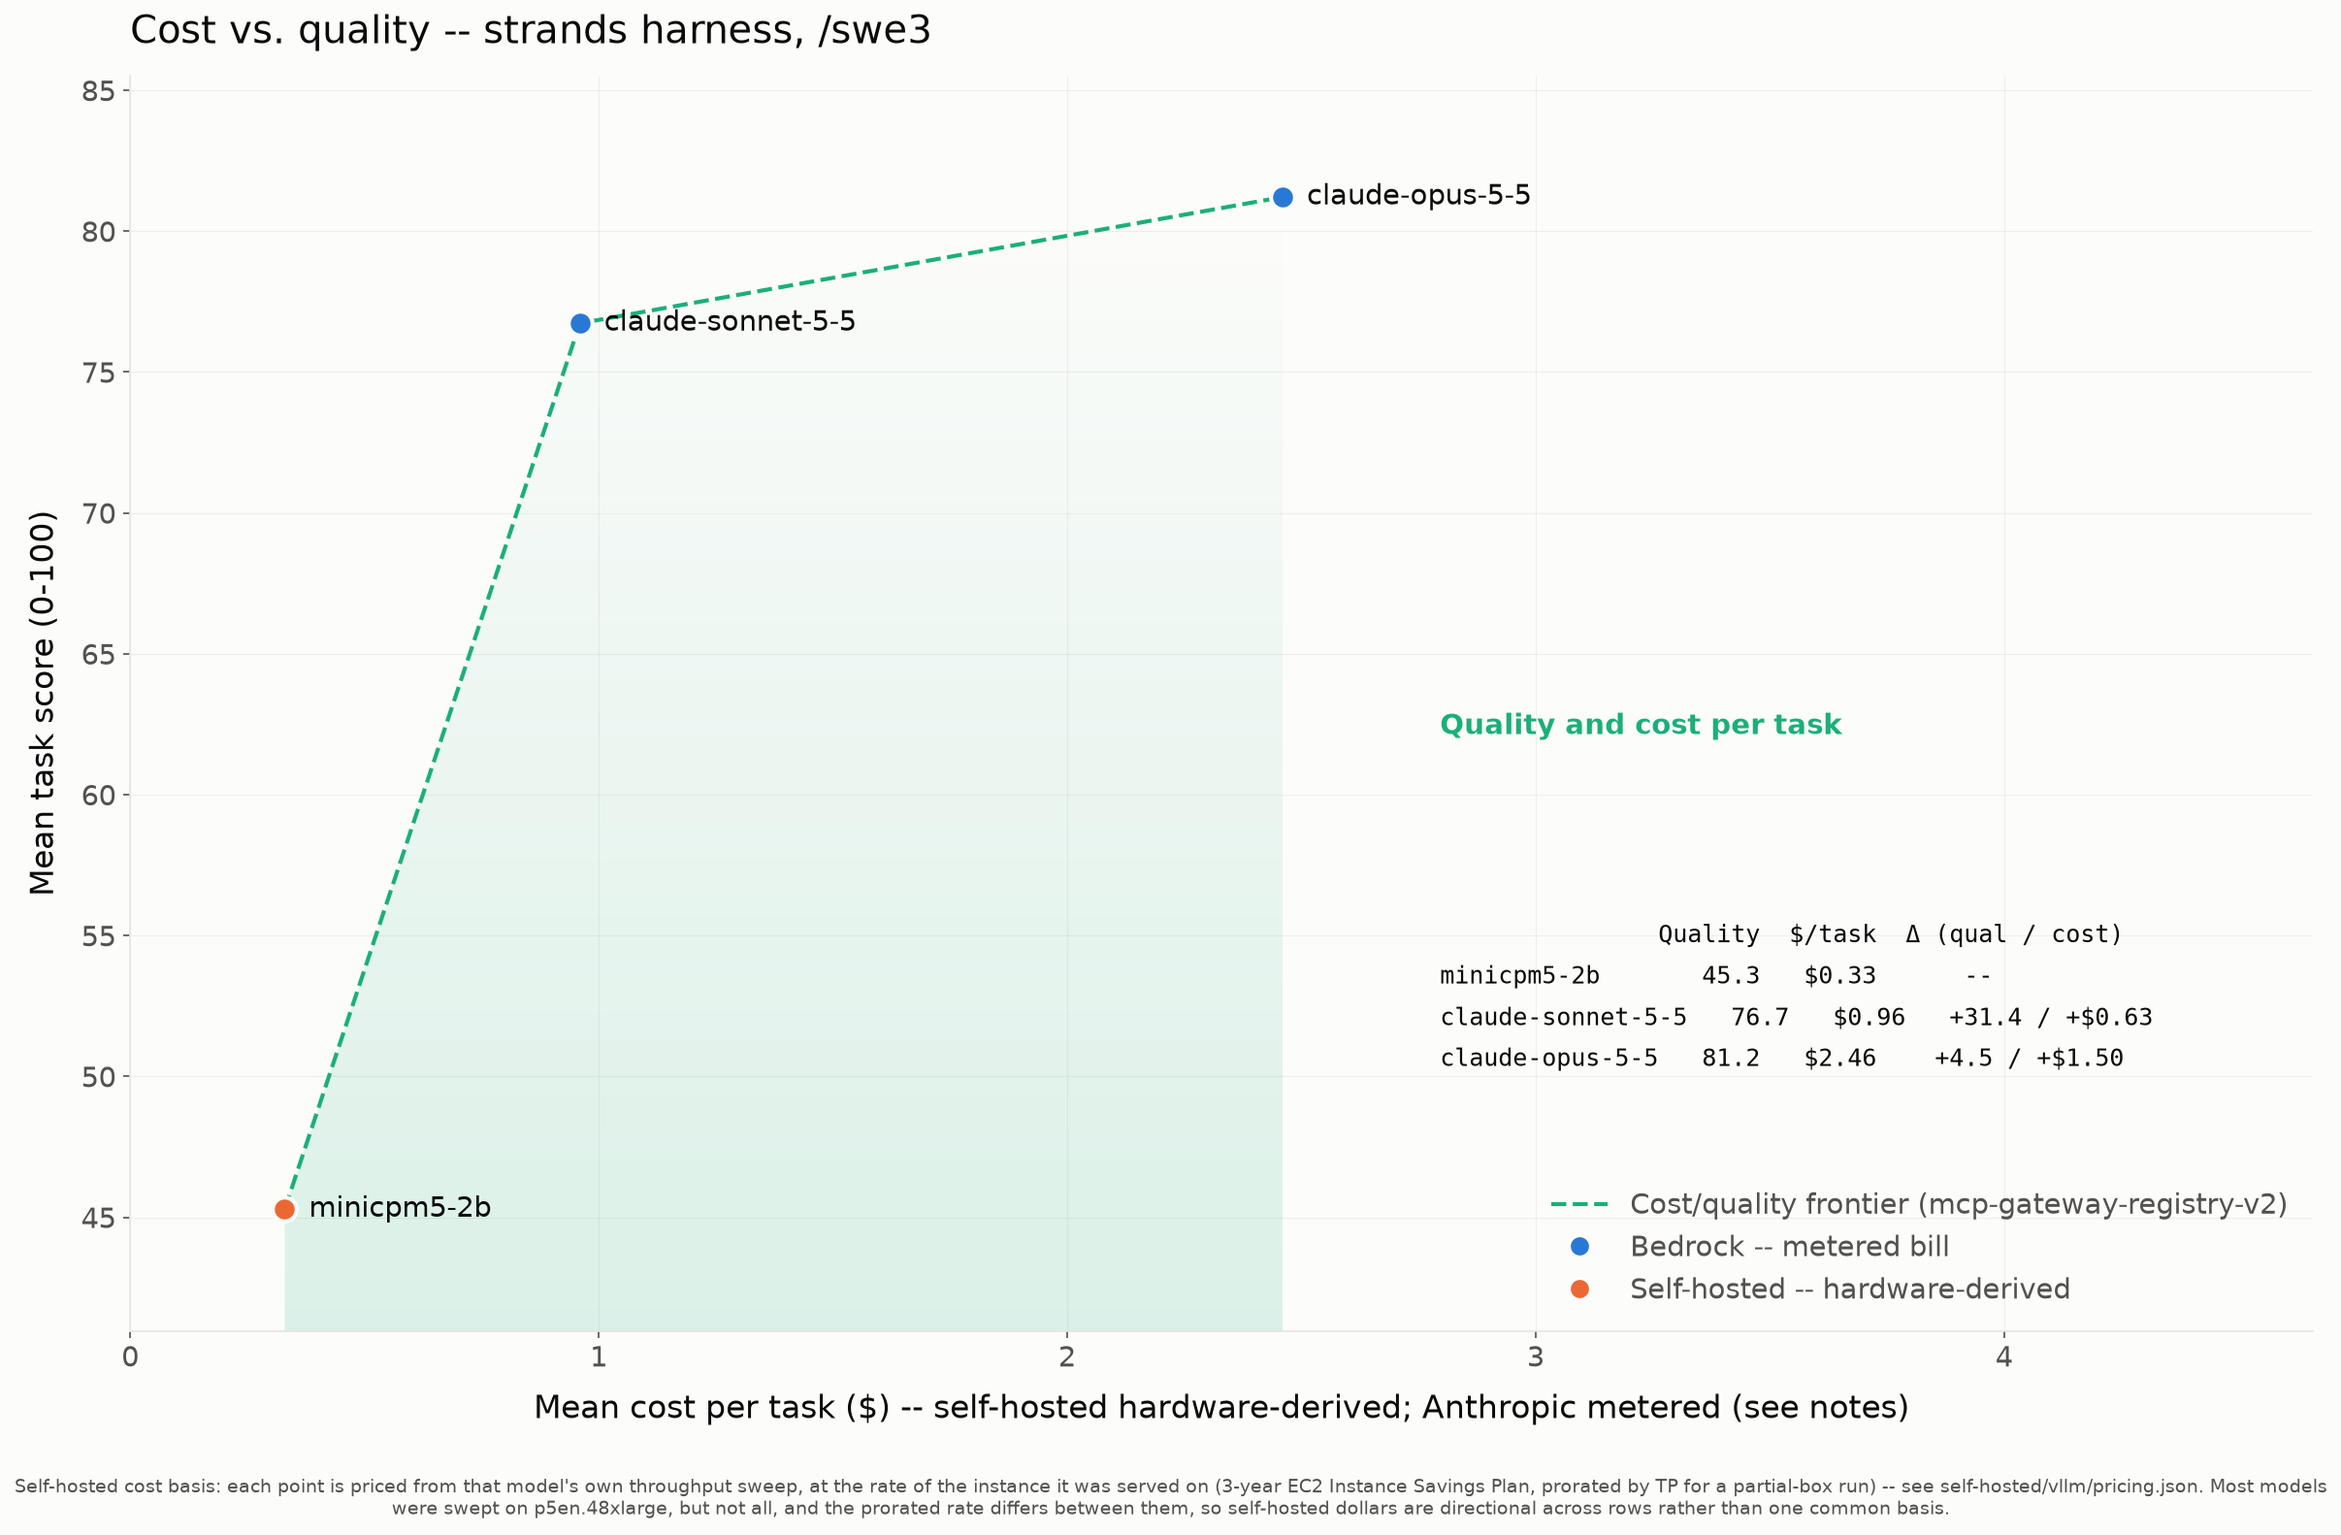
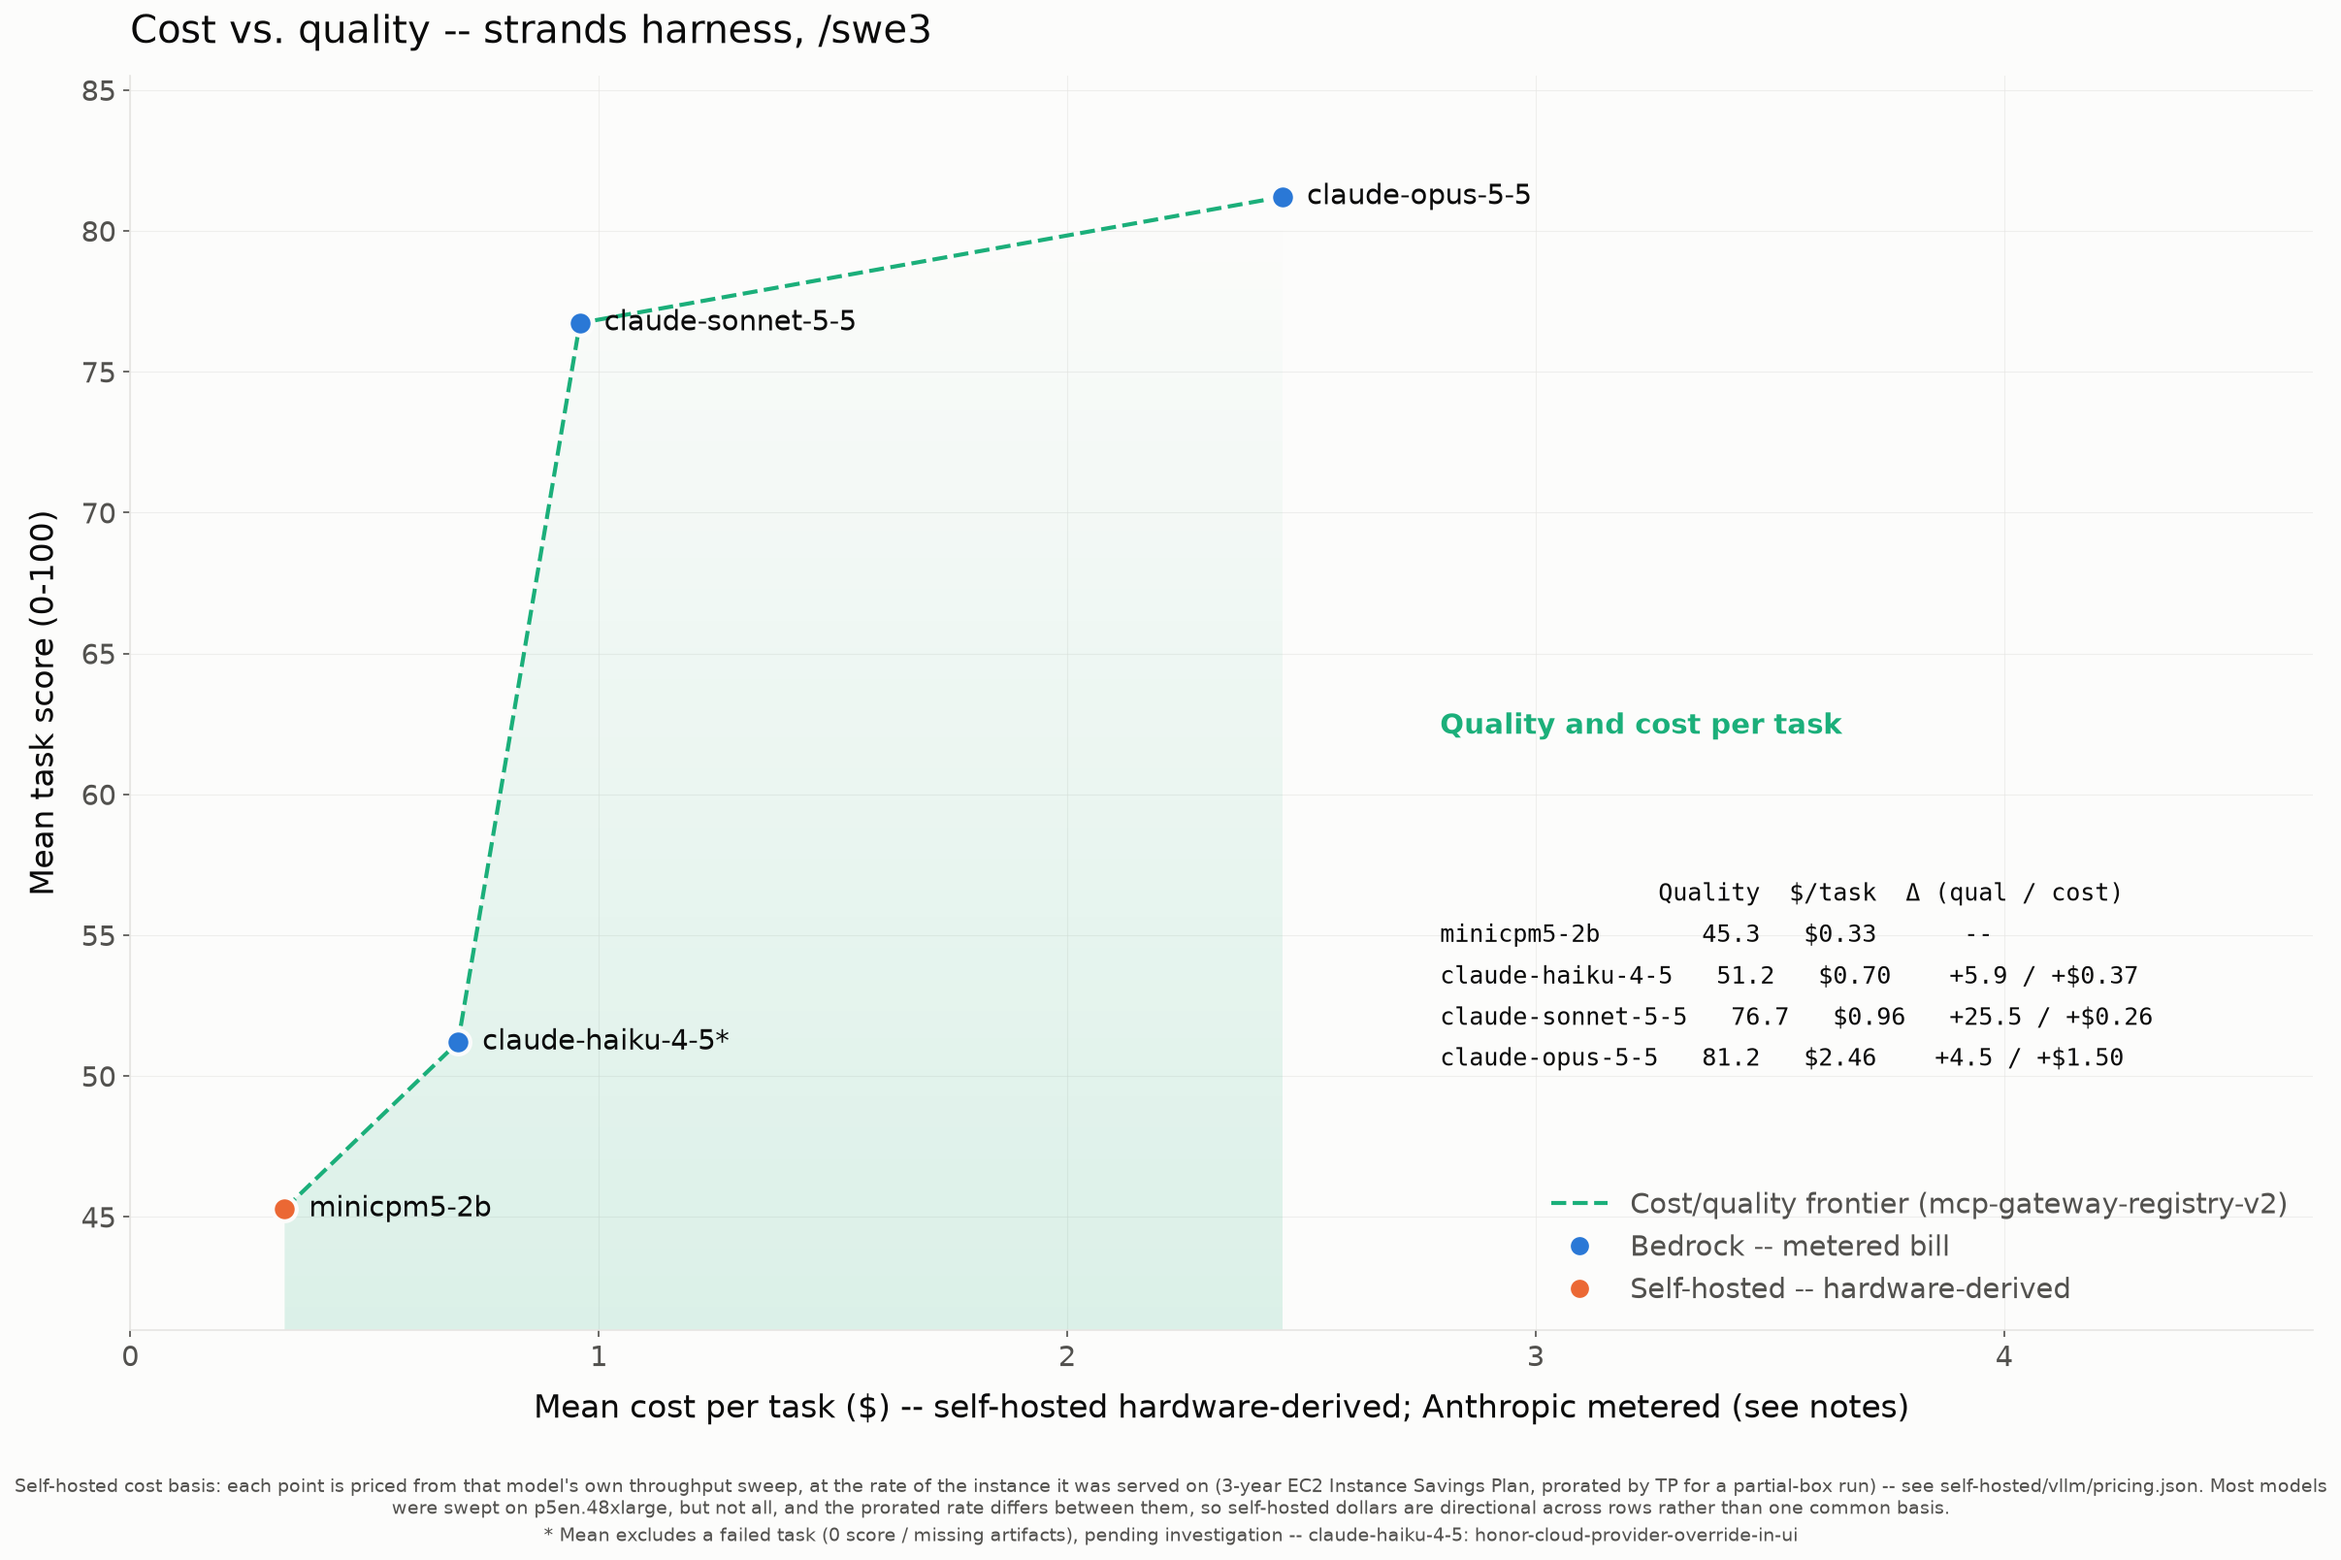
Add Haiku 4.5 to the Strands results page
Regenerate the Strands page and charts after merging #206, which adds
claude-haiku-4-5 under strands/swe3 on the v2 dataset (51.20 over 20 of 21
tasks). The notes record its one failure, a RecursionError after 973 turns on
honor-cloud-provider-override-in-ui.

diff --git a/docs/harness-strands-swe3.md b/docs/harness-strands-swe3.md
@@ -8,6 +8,7 @@ Benchmark results for every model run under the **Strands Agents** coding agent 
 |---|---:|---:|---:|---:|---:|---:|---:|---:|---:|---|
 | claude-opus-5-5 | 81.21 | 21/21 | 1,660 | 980,873 | 74,748,022 | 2,483,522 | 78,214,077 | 184.8m | $51.69 | metered (Bedrock) |
 | claude-sonnet-5-5 | 76.73 | 21/21 | 1,122 | 681,675 | 43,052,826 | 1,933,669 | 45,669,292 | 74.1m | $20.26 | metered (Bedrock) |
+| claude-haiku-4-5 | 51.20 | 20/21 | 46,996 | 687,756 | 68,911,255 | 1,935,109 | 71,581,116 | 136.3m | $14.08 | metered (Bedrock) |
 | minicpm5-2b | 45.28 | 21/21 | 3,245,301 | 689,816 | 156,682,768 | 0 | 160,617,885 | 167.4m | $6.93 | hardware-derived (g6e.4xlarge) |
 
 \* **Cost basis differs by row and the dollars are NOT directly comparable.** _hardware-derived (throughput)_ (self-hosted vLLM): a rented GPU has no per-token bill, so cost is the model's blended cost-per-token -- the cheapest concurrency level of ITS OWN throughput sweep -- times the tokens this run processed. Each row is priced at the rate of the instance that model was actually served on, named in this column, at that instance's rate in self-hosted/vllm/pricing.json. **The instance differs by row, so a self-hosted dollar figure is the cost of that model's work on ITS OWN hardware, not a common basis**; comparing two self-hosted rows compares two model-plus-hardware pairings rather than the models alone. This prices the real work done, unlike a wall-clock estimate that would also charge idle agent-thinking time. _metered (Bedrock)_: a hosted API's real per-token bill, summed over the run. It is a metered invoice, not a hardware estimate, and (unlike the self-hosted rows) it benefits from Bedrock prompt caching. See [cost-per-task-methodology.md](cost-per-task-methodology.md).
@@ -41,12 +42,15 @@ The rows used different versions of the Strands runner.
 | Model | Run date | Path | Runner |
 |---|---|---|---|
 | claude-opus-5-5 | 2026-10-02 ([#195](https://github.com/aarora79/agentic-coding-harness-benchmarks/pull/195)) | Amazon Bedrock | Strands as first added in [#194](https://github.com/aarora79/agentic-coding-harness-benchmarks/pull/194): skill loaded through the `AgentSkills` plugin, no tool-output cap, no tool-name map |
+| claude-haiku-4-5 | 2026-10-04 ([#206](https://github.com/aarora79/agentic-coding-harness-benchmarks/pull/206)) | Amazon Bedrock | the same runner as Opus 5.5 |
 | claude-sonnet-5-5 | 2026-10-04 ([#203](https://github.com/aarora79/agentic-coding-harness-benchmarks/pull/203)) | Amazon Bedrock, `global.` cross-region profile | the same runner as Opus 5.5 |
 | minicpm5-2b | 2026-10-04 ([#196](https://github.com/aarora79/agentic-coding-harness-benchmarks/issues/196)) | self-hosted vLLM, 131,072-token window | the runner after [#204](https://github.com/aarora79/agentic-coding-harness-benchmarks/pull/204), with the five changes listed in [strands-setup.md](strands-setup.md#where-the-runner-departs-from-strands-as-it-ships) |
 
 Opus 5.5 scored 81.21 under Strands and 81.16 under omp on the same 21 tasks, and cost $2.46 a task under Strands against $4.44 under omp (`benchmarks/swe-benchmark-data/claude-opus-5-5/{strands,omp}/swe3/mcp-gateway-registry-v2/run-summary.json`). A strong model on Bedrock did not need the changes in #204.
 
 MiniCPM5-2B did. Before #204, Strands lost task attempts on this model to rejected summaries, single large tool results, skipped skill loads and Claude Code tool names. The [model guide](../self-hosted/vllm/models/minicpm5-2b.md#measured-results-strands-swe3-mcp-gateway-registry-v2) compares the run with omp's on the same model: 45.28 over 21 tasks against 42.59 over 19.
+
+Haiku 4.5 scored 51.20 over 20 of 21 tasks under Strands, against 56.18 over 21 under omp, at $0.70 a task against $0.76. Its one failure, `honor-cloud-provider-override-in-ui`, ran 973 turns and then crashed with `RecursionError: maximum recursion depth exceeded`, close to Python's default limit of 1,000 frames, with no artifacts written (`benchmarks/swe-benchmark-data/claude-haiku-4-5/strands/swe3/mcp-gateway-registry-v2/honor-cloud-provider-override-in-ui/metrics.json`). None of the changes in #204 address this.
 
 Sonnet 5.5 has no omp run to compare against. Its results first landed in a folder named after the full profile id, `global.anthropic.claude-sonnet-5-5`, because the folder-name rule did not strip the `global.` prefix; [#205](https://github.com/aarora79/agentic-coding-harness-benchmarks/issues/205) fixed the rule and moved the folder to `claude-sonnet-5-5`.
 
